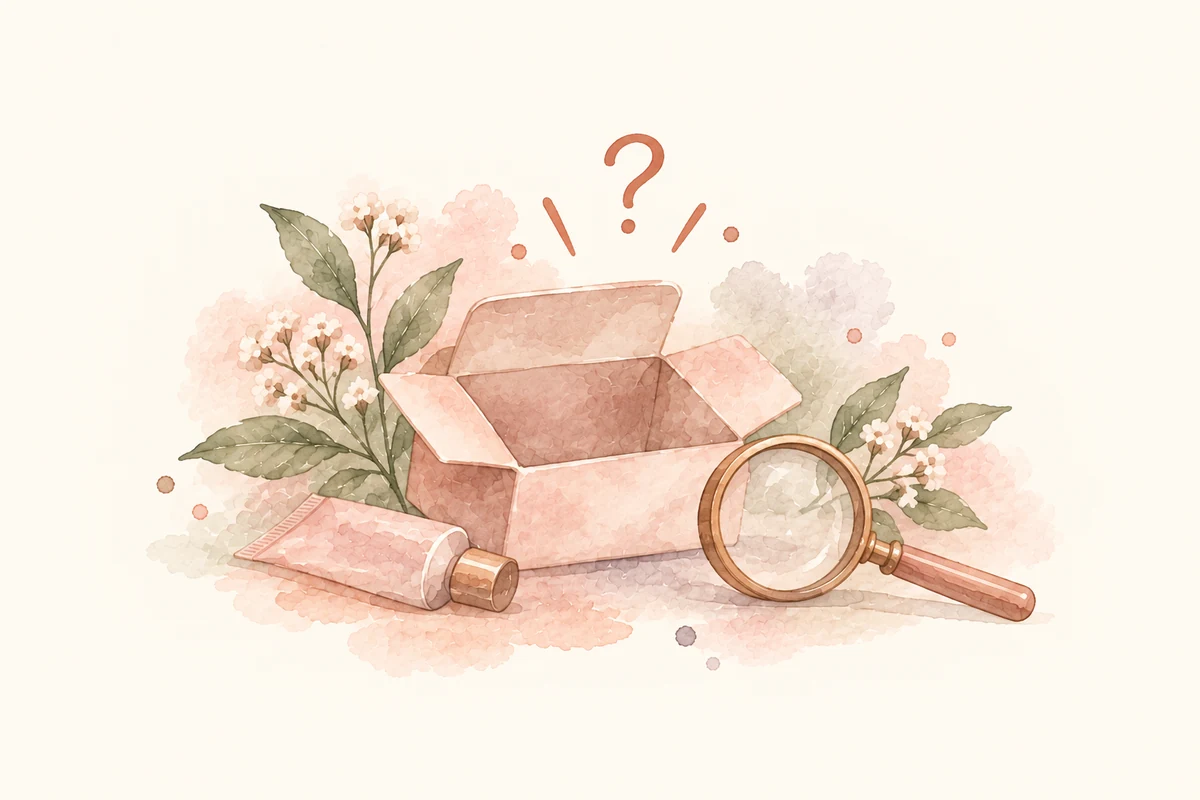
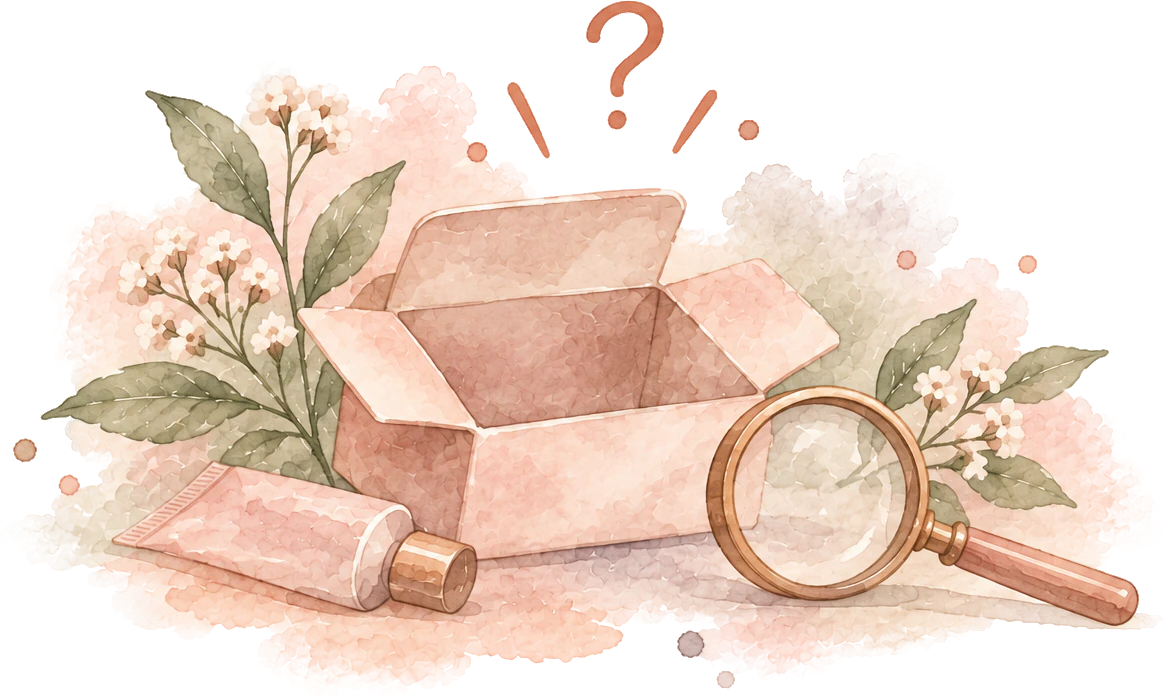
feat(search): a watercolor before typing, three letters to search, and a way to the photo when nothing matches
- Find skincare opens on the watercolor still life ("A little progress every
  day") instead of the "Scan a product instead" button.
- Search waits for three letters (SEARCH_MIN_LETTERS in data/api.ts, used by
  both the screen and searchProducts) before it looks anything up.
- With no match, the picture switches to the "no product found" watercolor,
  with "We don't have this product in our library yet." and "Scan the list of
  ingredients instead", which opens the scanner in Photo mode.
- The scanner's no-match sheet uses the same picture, now the transparent
  version from new-watercolor/.

Claude-Session: https://claude.ai/code/session_01MwpnKhtvuYw5CEBRrAAAfN

diff --git a/app/(tabs)/browse.tsx b/app/(tabs)/browse.tsx
@@ -1,3 +1,4 @@
+import { Image } from "expo-image";
 import { router, useFocusEffect, useLocalSearchParams } from "expo-router";
 import { useCallback, useEffect, useMemo, useRef, useState } from "react";
 import { FlatList, Pressable, TextInput, View, type ListRenderItem } from "react-native";
@@ -10,9 +11,9 @@ import { PrimaryButton } from "@/components/PrimaryButton";
 import { ProductRow } from "@/components/ProductRow";
 import { ProductRowSkeleton } from "@/components/ProductRowSkeleton";
 import { SkinMatchCard } from "@/components/SkinMatchCard";
-import { openScanner } from "@/lib/open-scanner";
+import { openPhotoScanner } from "@/lib/open-scanner";
 import { Text } from "@/components/Text";
-import { fetchProductsByIds, peekProducts, searchableQuery, searchProducts, SEARCH_RESULT_LIMIT } from "@/data/api";
+import { fetchProductsByIds, peekProducts, searchableQuery, searchProducts, SEARCH_MIN_LETTERS, SEARCH_RESULT_LIMIT } from "@/data/api";
 import type { ProductWithIngredients } from "@/data/types";
 import { matchProduct, type MatchResult } from "@/lib/matching";
 import { isPersonalized } from "@/lib/profile";
@@ -37,13 +38,21 @@ const RECENT_LIMIT = 8;
 // One empty list, so "nothing recent yet" is the same value every render.
 const NO_PRODUCTS: ProductWithIngredients[] = [];
 
+// Before typing: the watercolor still life with "A little progress every day"
+// (new-watercolor sheets), on a cream within a shade of CANVAS so it has no edge.
+const WELCOME_ART = require("@/assets/illustrations/search-welcome.webp");
+const WELCOME_ASPECT = 1024 / 1536;
+// A search with no match: the open box and magnifier, as the scanner's no-match sheet.
+const NO_MATCH_ART = require("@/assets/illustrations/no-product-found.webp");
+const NO_MATCH_ASPECT = 1164 / 697;
+
 // How many placeholder rows stand in for results on a cold search — enough to
 // fill a phone screen without pretending to know the real count.
 const SKELETON_ROWS = 6;
 
 // One flat array for the FlatList, which can only virtualize a single list.
 type SearchItem =
-  | { kind: "scan" }
+  | { kind: "welcome" }
   | { kind: "skin-match" }
   | { kind: "recent-heading" }
   | { kind: "skeleton"; id: string }
@@ -56,13 +65,13 @@ function skeletonRows(): SearchItem[] {
 
 export default function Browse() {
   const insets = useSafeAreaInsets();
-  // `searchResults` is null until a query of at least 2 characters has
+  // `searchResults` is null until a query of at least SEARCH_MIN_LETTERS has
   // actually been searched.
   const [query, setQuery] = useState("");
   const searchInput = useRef<TextInput>(null);
   const [searchResults, setSearchResults] = useState<ProductWithIngredients[] | null>(null);
   const [searching, setSearching] = useState(false);
-  const searchActive = query.trim().length >= 2;
+  const searchActive = query.trim().length >= SEARCH_MIN_LETTERS;
 
   const profile = useAppStore((s) => s.profile);
   const personalized = isPersonalized(profile);
@@ -225,9 +234,8 @@ export default function Browse() {
       // Results with no scores yet: the questions that would score them (#346).
       return personalized ? rows : [{ kind: "skin-match" }, ...rows];
     }
-    // Before typing. The scanner first: with the keyboard up, it is the one
-    // thing sure to be above it.
-    const list: SearchItem[] = [{ kind: "scan" }];
+    // Before typing: the watercolor still life (owner), then what was viewed recently.
+    const list: SearchItem[] = [{ kind: "welcome" }];
     if (recent.length > 0) {
       list.push(
         { kind: "recent-heading" },
@@ -239,11 +247,14 @@ export default function Browse() {
 
   const renderItem: ListRenderItem<SearchItem> = ({ item }) => {
     switch (item.kind) {
-      case "scan":
+      case "welcome":
         return (
-          <View style={{ paddingHorizontal: HEADER_GUTTER, paddingBottom: SPACE.block }}>
-            <PrimaryButton variant="gray" size={48} label="Scan a product instead" onPress={openScanner} />
-          </View>
+          <Image
+            source={WELCOME_ART}
+            contentFit="contain"
+            accessibilityLabel="A little progress every day"
+            style={{ width: "100%", aspectRatio: WELCOME_ASPECT }}
+          />
         );
 
       case "skin-match":
@@ -268,14 +279,12 @@ export default function Browse() {
 
       case "empty-search":
         return (
-          <View style={{ alignItems: "center", gap: 8, paddingHorizontal: 40, paddingTop: 80 }}>
+          <View style={{ alignItems: "center", gap: 12, paddingHorizontal: HEADER_GUTTER, paddingTop: SPACE.block }}>
+            <Image source={NO_MATCH_ART} contentFit="contain" accessibilityLabel="" style={{ width: "88%", aspectRatio: NO_MATCH_ASPECT }} />
             <Text style={{ textAlign: "center", fontFamily: "PlayfairDisplay_500Medium", fontSize: 18, color: INK }}>
               We don&apos;t have this product in our library yet.
             </Text>
-            <Text style={{ textAlign: "center", fontSize: 13, lineHeight: 19, color: MUTED }}>
-              Try the Scan tab to scan its barcode or ingredients instead.
-            </Text>
-            <PrimaryButton size={52} label="Go to Scan" onPress={openScanner} />
+            <PrimaryButton size={52} label="Scan the list of ingredients instead" onPress={() => openPhotoScanner({})} />
           </View>
         );
 

diff --git a/__tests__/search-tab.test.tsx b/__tests__/search-tab.test.tsx
@@ -9,7 +9,7 @@ import { act, fireEvent, render, screen } from "@testing-library/react-native";
 jest.setTimeout(30000);
 
 const mockOpenScanner = jest.fn();
-jest.mock("@/lib/open-scanner", () => ({ openScanner: () => mockOpenScanner() }));
+jest.mock("@/lib/open-scanner", () => ({ openPhotoScanner: (photo: unknown) => mockOpenScanner(photo) }));
 
 // Search's own params (`byName`, #323).
 let mockParams: Record<string, string> = {};
@@ -58,11 +58,11 @@ it("goes back to Home from its back arrow, having no tab of its own", async () =
 });
 
 describe("before typing", () => {
-  it("shows no product list, only the search box and the scanner", async () => {
+  it("shows the search box and the watercolor still life, and no product list", async () => {
     await render(<Search />);
     expect(screen.getByLabelText("Search products or brands")).toBeTruthy();
-    await act(async () => fireEvent.press(screen.getByText("Scan a product instead")));
-    expect(mockOpenScanner).toHaveBeenCalledTimes(1);
+    expect(screen.getByLabelText("A little progress every day")).toBeTruthy();
+    expect(screen.queryByText("Scan a product instead")).toBeNull();
     expect(screen.queryByText("Recently viewed")).toBeNull();
     expect(screen.queryByText("Hanbang Rice Ferment Hydrating Serum")).toBeNull();
   });
@@ -101,12 +101,25 @@ describe("typing", () => {
     expect(scores).toEqual([...scores].sort((a, b) => b - a));
   });
 
-  it("offers the scanner when nothing matches", async () => {
+  it("offers to photograph the ingredient list when nothing matches", async () => {
     await render(<Search />);
     await act(async () => fireEvent.changeText(screen.getByLabelText("Search products or brands"), "zzzz nothing"));
     expect(await screen.findByText("We don't have this product in our library yet.", {}, { timeout: 3000 })).toBeTruthy();
-    await act(async () => fireEvent.press(screen.getByText("Go to Scan")));
-    expect(mockOpenScanner).toHaveBeenCalledTimes(1);
+    expect(screen.queryByLabelText("A little progress every day")).toBeNull();
+    await act(async () => fireEvent.press(screen.getByText("Scan the list of ingredients instead")));
+    // The scanner, in Photo mode.
+    expect(mockOpenScanner).toHaveBeenCalledWith({});
+  });
+
+  it("waits for three letters before it searches", async () => {
+    await render(<Search />);
+    await act(async () => fireEvent.changeText(screen.getByLabelText("Search products or brands"), "ce"));
+    // Two letters: still the still life, no results and no "not found".
+    expect(screen.getByLabelText("A little progress every day")).toBeTruthy();
+    expect(screen.queryByText("We don't have this product in our library yet.")).toBeNull();
+
+    await act(async () => fireEvent.changeText(screen.getByLabelText("Search products or brands"), "cer"));
+    expect(screen.queryByLabelText("A little progress every day")).toBeNull();
   });
 });
 

diff --git a/app/scanner.tsx b/app/scanner.tsx
@@ -1291,11 +1291,11 @@ function IngredientsStage({
 // full-bleed now), so a fixed bottom inset put the frame's bottom edge, and
 // its instruction text, underneath the switcher rather than clear of it.
 const SWITCHER_HEIGHT = 53;
-// The no-match sheet (after OnSkin): its picture (new-watercolor sheets, "no
-// product found", on a cream within a shade of CANVAS so it has no edge), its
-// corners, and how far below it starts.
+// The no-match sheet (after OnSkin): its picture (new-watercolor/
+// no_product_match_v1_transparent.png, trimmed), its corners, and how far
+// below it starts.
 const NO_MATCH_ART = require("@/assets/illustrations/no-product-found.webp");
-const NO_MATCH_ASPECT = 1200 / 800;
+const NO_MATCH_ASPECT = 1164 / 697;
 const NO_MATCH_RADIUS = 32;
 const NO_MATCH_TRAVEL = 700;
 // Apple's spring for a sheet presenting: critically damped (fraction 1) at

diff --git a/data/api.ts b/data/api.ts
@@ -1602,8 +1602,11 @@ export function searchableQuery(query: string): string | null {
   return /[\p{L}\p{N}]/u.test(cleaned) ? cleaned : null;
 }
 
+/** How many letters a search needs before it looks anything up (owner). */
+export const SEARCH_MIN_LETTERS = 3;
+
 export async function searchProducts(query: string): Promise<ProductWithIngredients[]> {
-  if (query.trim().length < 2) return [];
+  if (query.trim().length < SEARCH_MIN_LETTERS) return [];
   const escaped = searchableQuery(query);
   if (escaped === null) return [];
 
